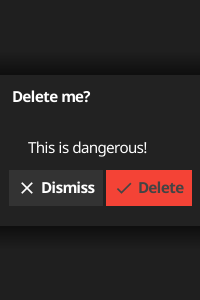
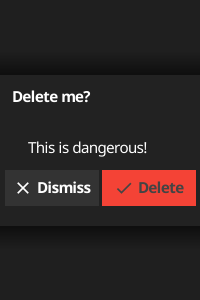
dialog: Use grids for button row

Changed region(s): [[0.09, 0.6, 0.48, 0.66], [0.96, 0.57, 0.99, 0.69], [0.51, 0.57, 0.54, 0.69]]

diff --git a/dialog/custom.go b/dialog/custom.go
@@ -3,7 +3,6 @@ package dialog
 import (
 	"fyne.io/fyne/v2"
 	"fyne.io/fyne/v2/container"
-	"fyne.io/fyne/v2/layout"
 	"fyne.io/fyne/v2/theme"
 	"fyne.io/fyne/v2/widget"
 )
@@ -17,7 +16,7 @@ func NewCustom(title, dismiss string, content fyne.CanvasObject, parent fyne.Win
 	d.dismiss = &widget.Button{Text: dismiss,
 		OnTapped: d.Hide,
 	}
-	d.create(container.NewHBox(layout.NewSpacer(), d.dismiss, layout.NewSpacer()))
+	d.create(container.NewGridWithColumns(1, d.dismiss))
 
 	return d
 }
@@ -45,7 +44,7 @@ func NewCustomConfirm(title, confirm, dismiss string, content fyne.CanvasObject,
 			d.hideWithResponse(true)
 		},
 	}
-	d.create(container.NewHBox(layout.NewSpacer(), d.dismiss, ok, layout.NewSpacer()))
+	d.create(container.NewGridWithColumns(2, d.dismiss, ok))
 
 	return &ConfirmDialog{dialog: d, confirm: ok}
 }

diff --git a/dialog/file_test.go b/dialog/file_test.go
@@ -609,10 +609,10 @@ func TestCreateNewFolderInDir(t *testing.T) {
 	folderNameInputEntry := folderNameInputUi.Objects[2].(*widget.Form).Items[0].Widget.(*widget.Entry)
 	assert.Equal(t, "", folderNameInputEntry.Text)
 
-	folderNameInputCancel := folderNameInputUi.Objects[3].(*fyne.Container).Objects[1].(*widget.Button)
+	folderNameInputCancel := folderNameInputUi.Objects[3].(*fyne.Container).Objects[0].(*widget.Button)
 	assert.Equal(t, "Cancel", folderNameInputCancel.Text)
 	assert.Equal(t, theme.CancelIcon(), folderNameInputCancel.Icon)
 
-	folderNameInputCreate := folderNameInputUi.Objects[3].(*fyne.Container).Objects[2].(*widget.Button)
+	folderNameInputCreate := folderNameInputUi.Objects[3].(*fyne.Container).Objects[1].(*widget.Button)
 	assert.Equal(t, theme.ConfirmIcon(), folderNameInputCreate.Icon)
 }

diff --git a/dialog/form.go b/dialog/form.go
@@ -3,7 +3,6 @@ package dialog
 import (
 	"fyne.io/fyne/v2"
 	"fyne.io/fyne/v2/container"
-	"fyne.io/fyne/v2/layout"
 	"fyne.io/fyne/v2/theme"
 	"fyne.io/fyne/v2/widget"
 )
@@ -66,7 +65,7 @@ func NewForm(title, confirm, dismiss string, items []*widget.FormItem, callback 
 
 	form.SetOnValidationChanged(formDialog.validateItems)
 
-	d.create(container.NewHBox(layout.NewSpacer(), d.dismiss, confirmBtn, layout.NewSpacer()))
+	d.create(container.NewGridWithColumns(2, d.dismiss, confirmBtn))
 	return formDialog
 }
 
